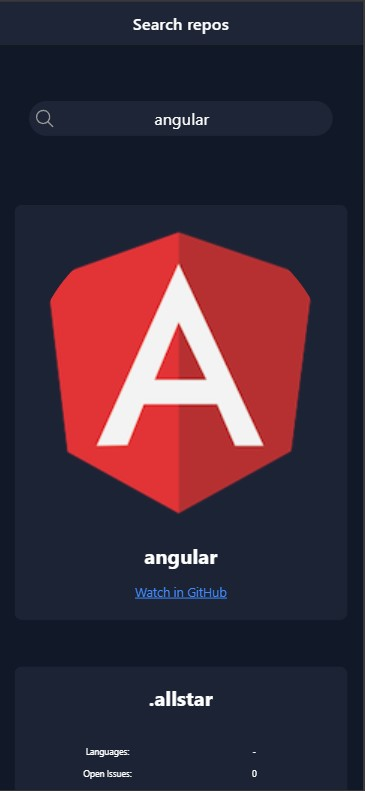
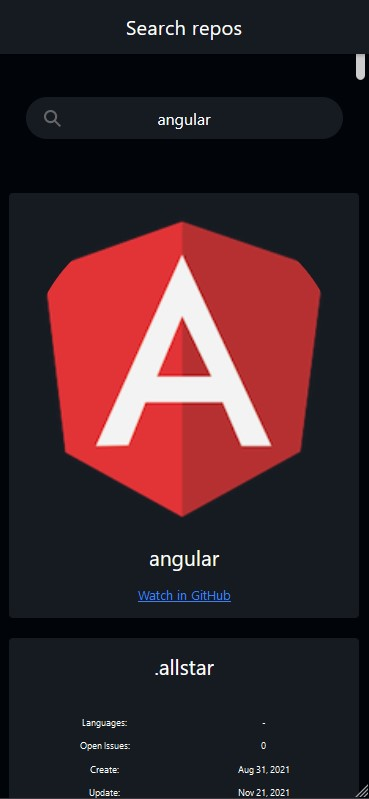
cambios color e imagenes

diff --git a/src/theme/variables.scss b/src/theme/variables.scss
@@ -249,10 +249,22 @@ $textColor: #fff;
 
 // 111827
 // 282c34
-$backColorSecond: #111827;
-$backColorFirst: #1D2536;
+// $backColorSecond: #111827;
+// $backColorFirst: #1D2536;
+
+$backColorSecond: #010409;
+$backColorFirst: #161B22;
+
 $primary: #fff;
 
+
+ion-toolbar{
+  display: flex;
+  flex-direction: row;
+  flex-wrap: wrap;
+  justify-content: center;
+  align-items: center;
+}
 
 ion-infinite-scroll-content{
   ion-spinner{
@@ -310,7 +322,7 @@ ion-tab-bar{
 ion-searchbar{
   --box-shadow: none !important;
   --border-radius: 50px !important;
-  --background:#1D2536;
+  --background:#161B22;
 }
 
 ion-menu{
@@ -328,8 +340,8 @@ ion-menu{
 ion-card{
   box-shadow: none !important;
   width: 96%;
-  // background: #1D2536;
-  --background: rgba(29,37,54,0.90);
+  background: #161B22;
+  // --background: rgba(29,37,54,0.90);
 
   //titulo de la card
   ion-card-title{
@@ -402,7 +414,7 @@ ion-card{
 }
 
 .back-color {
-  --background: #111827;
+  --background: #010409;
 }
 
 // PAGE BACKGROUND COLOR

diff --git a/src/app/core/containers/root.page.ts b/src/app/core/containers/root.page.ts
@@ -11,12 +11,7 @@ import { Store } from '@ngrx/store';
    <!-- CABECERA  -->
    <ion-header no-border >
      <ion-toolbar mode="md|ios">
-       <ion-button fill="clear" size="small" slot="start" (click)="open()">
-         <!-- <ion-menu-button class="text-color"></ion-menu-button> -->
-       </ion-button>
        <ion-title class="text-color" >{{'COMMON.TITLE' | translate}}</ion-title>
-       <div size="small" slot="end">
-       </div>
      </ion-toolbar>
    </ion-header>
 
